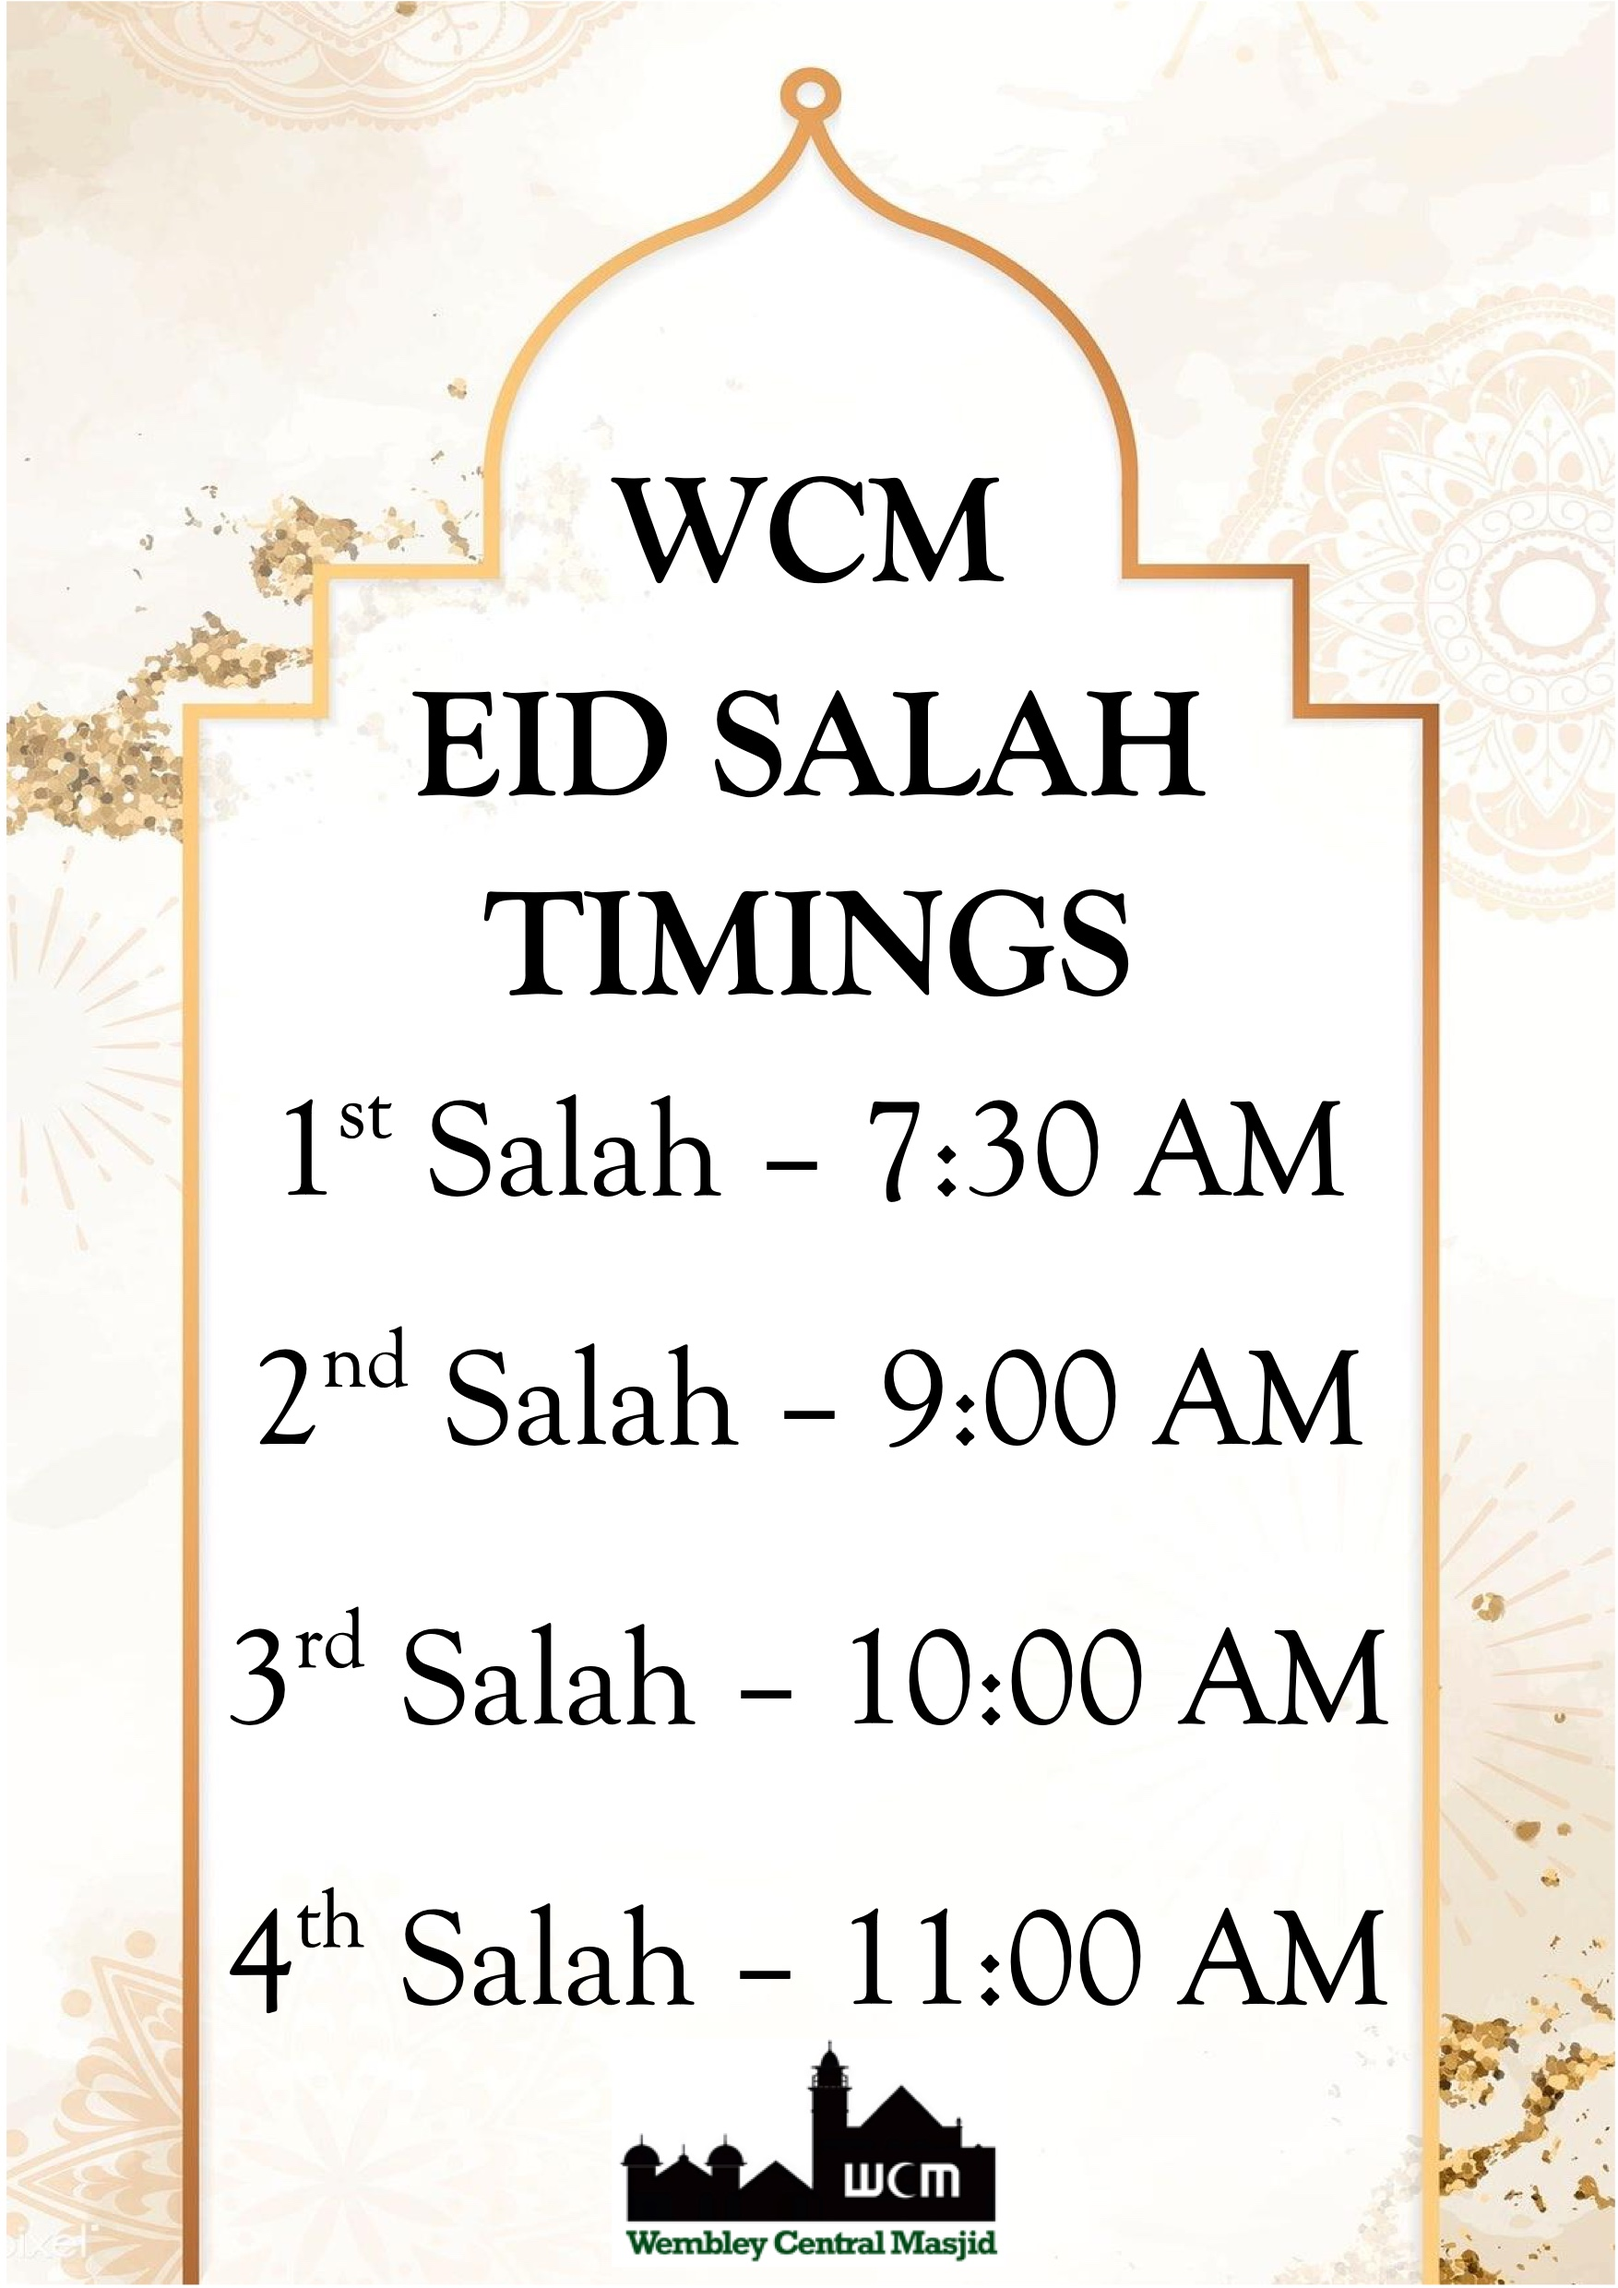
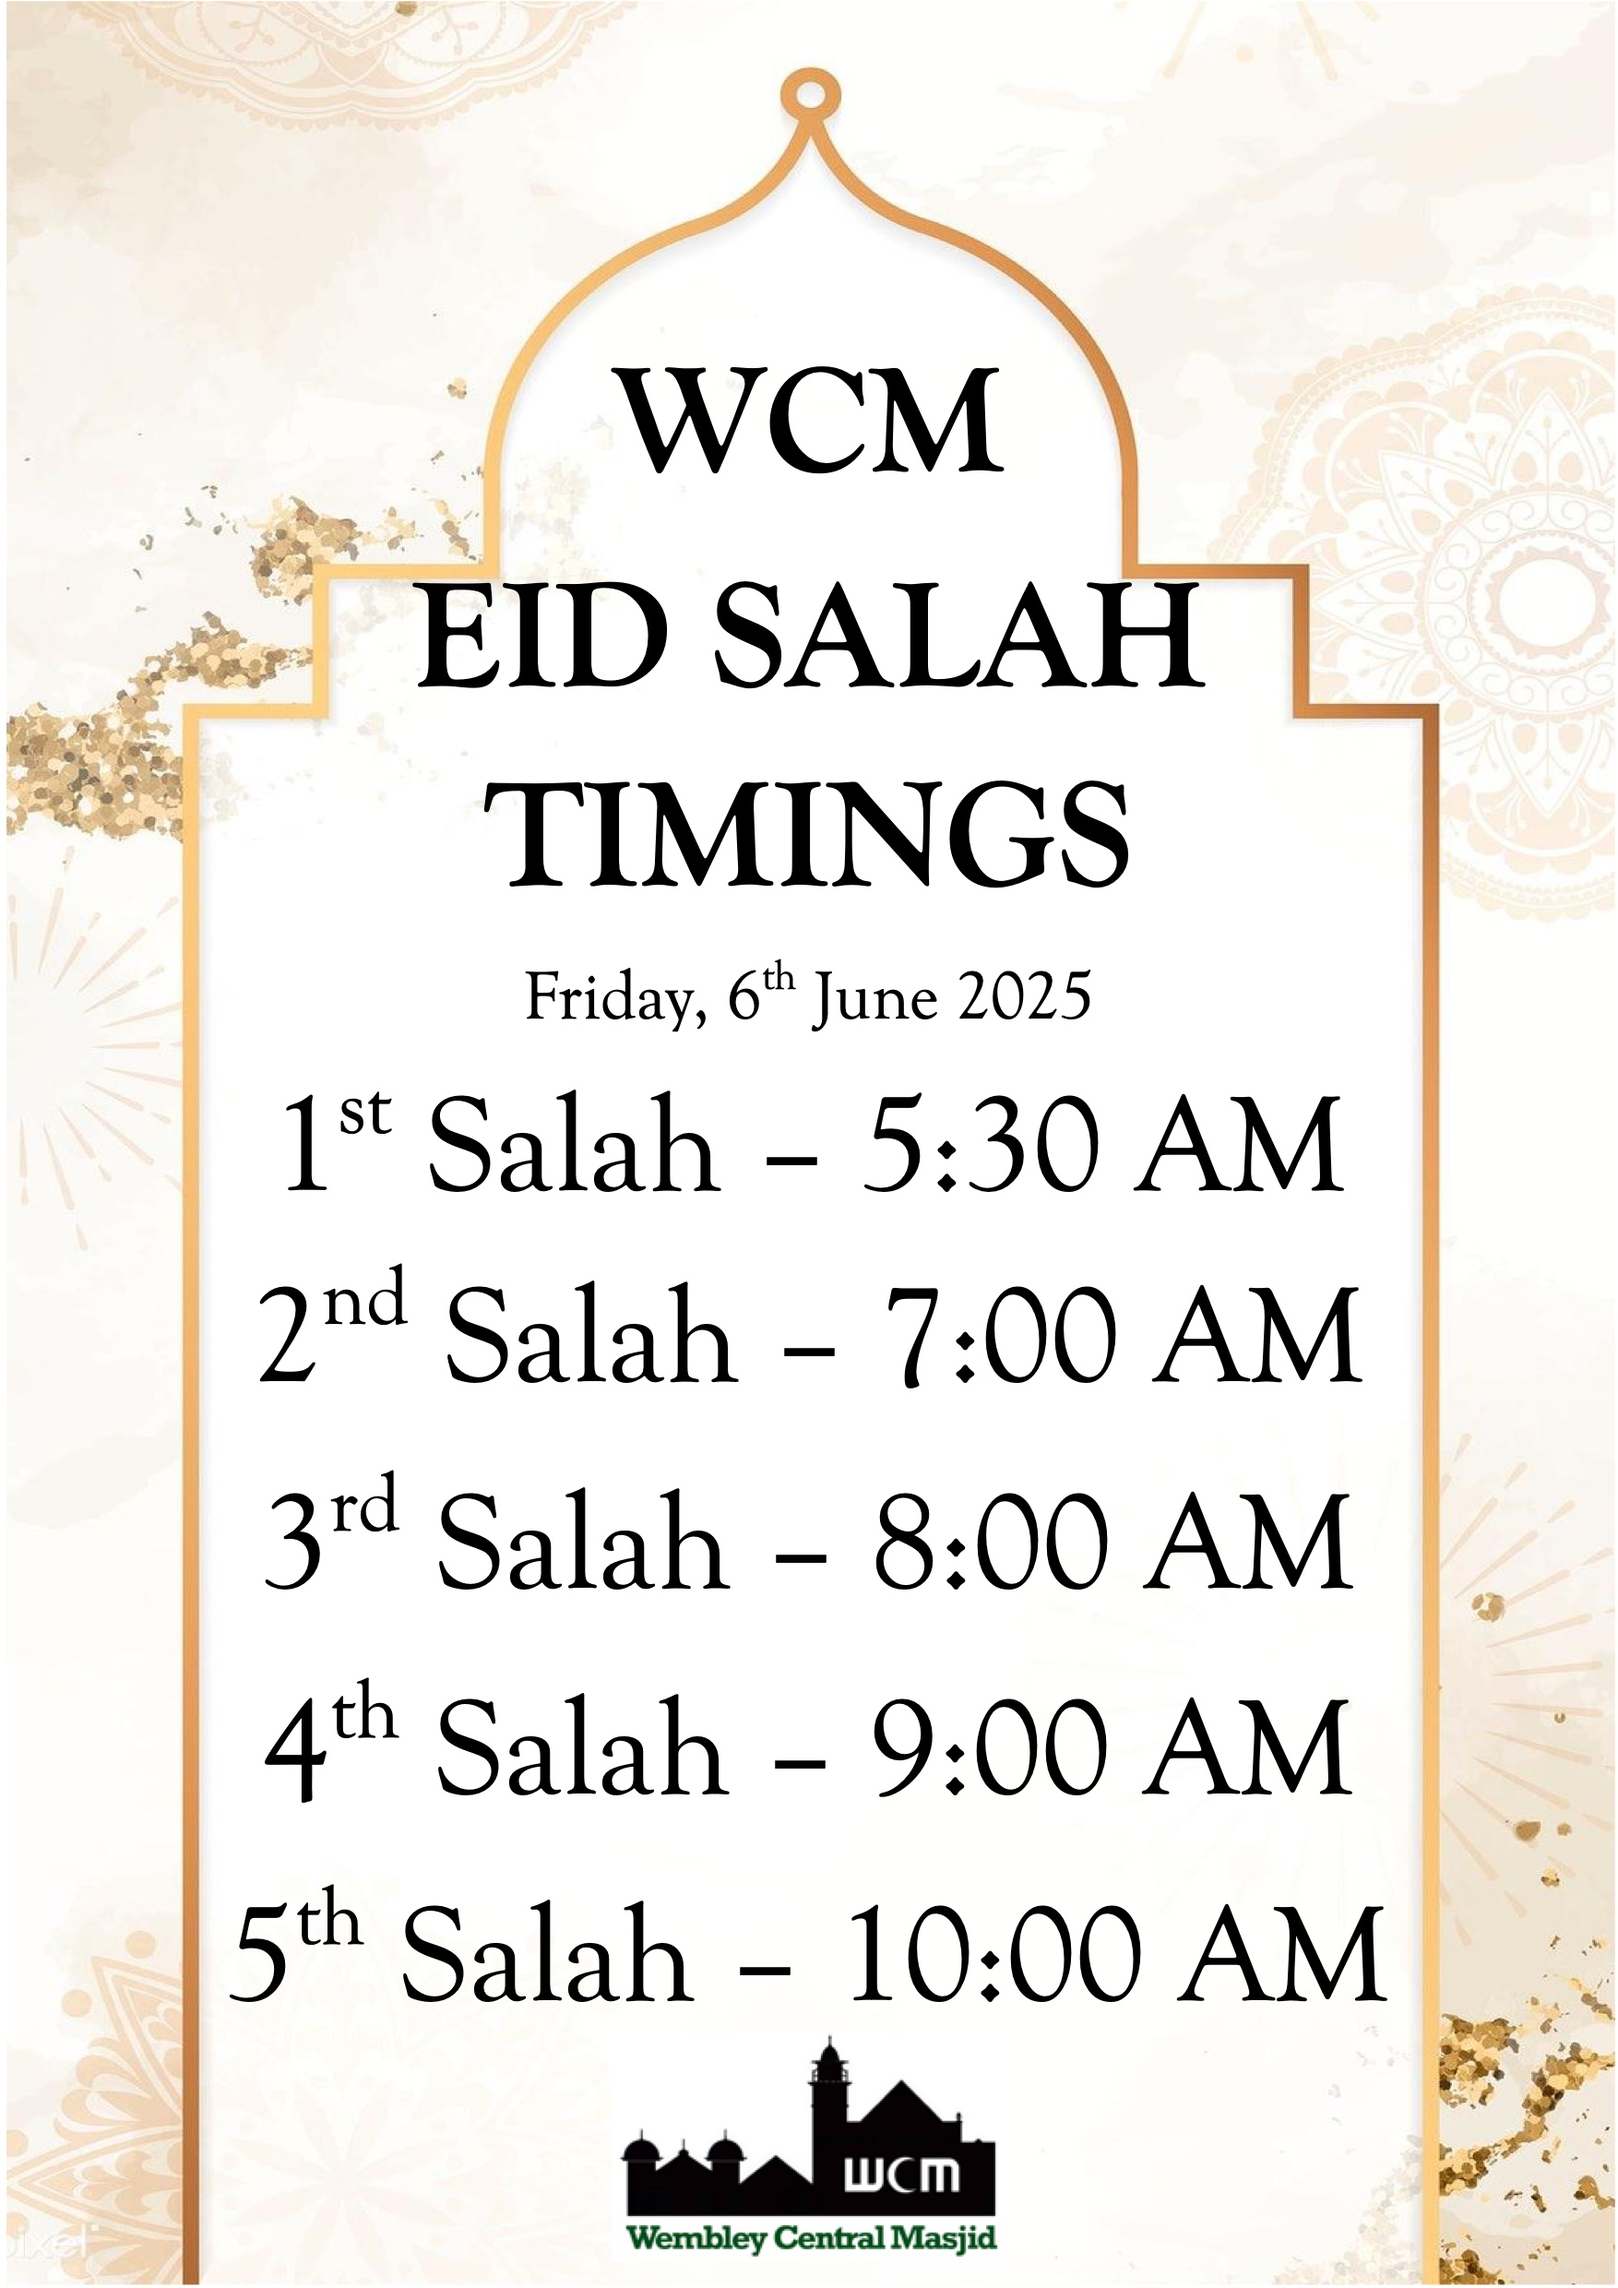
june 2025 eid poster

diff --git a/data/content.js b/data/content.js
@@ -1,5 +1,9 @@
 App.content = [
     {
+        "image": "eid.jpg",
+        "toDate": "2025-06-06 09:59:00"
+    },
+    {
         "image": "event_days.jpg",
         "toDate": "2025-05-31 00:00:00"
     },
